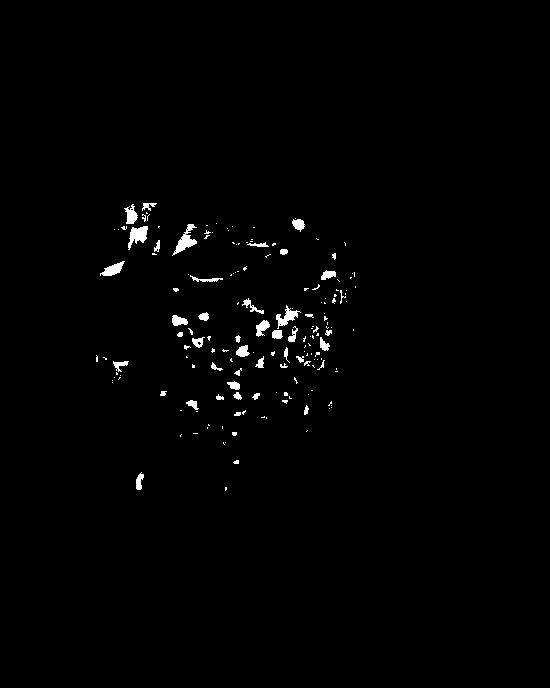
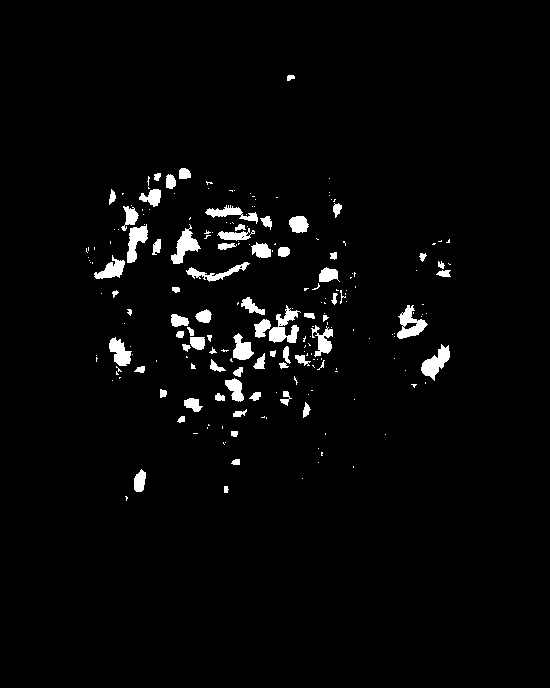
coom cnt if it can

diff --git a/Detect_Acne.py b/Detect_Acne.py
@@ -123,6 +123,14 @@ class Acne_Dector:
                     print(area)
                 if area > 300:
                     cv2.drawContours(bin_roi_BGR, [cnt], -1, (0, 0, 0), -1)
+                elif len(cnt) > 0:
+                    try:
+                        cnt_2d = np.reshape(cnt, (cnt.shape[0], 2))
+                        cnt_2d = proportional_zoom_contour(cnt_2d, 1.2 if area > 100 else 1.5)
+                        if cnt_2d.size > 0:
+                            cv2.drawContours(bin_roi_BGR, [cnt_2d], -1, (255, 255, 255), -1)
+                    except ValueError:
+                        pass
                     
             self.mask = cv2.cvtColor(bin_roi_BGR, cv2.COLOR_BGR2GRAY)
             
@@ -135,6 +143,36 @@ class Acne_Dector:
             
             self.img[np.where(self.mask==255)] = 0  
             self.img = cv2.inpaint(img, self.mask, 3, cv2.INPAINT_TELEA)
+
+import pyclipper
+
+def perimeter(poly):
+    p = 0
+    nums = poly.shape[0]
+    for i in range(nums):
+        p += abs(np.linalg.norm(poly[i % nums] - poly[(i + 1) % nums]))
+    return p
+
+def proportional_zoom_contour(contour, ratio):
+    """
+    多边形轮廓点按照比例进行缩放
+    :param contour: 一个图形的轮廓格式[[[x1, x2]],...],shape是(-1, 1, 2)
+    :param ratio: 缩放的比例，如果大于1是放大小于1是缩小
+    :return:
+    """
+    poly = contour[:, :]
+    area_poly = abs(pyclipper.Area(poly))
+    perimeter_poly = perimeter(poly)
+    poly_s = []
+    pco = pyclipper.PyclipperOffset()
+    pco.MiterLimit = 10
+    if perimeter_poly:
+        d = area_poly * (1 - ratio * ratio) / perimeter_poly
+        pco.AddPath(poly, pyclipper.JT_MITER, pyclipper.ET_CLOSEDPOLYGON)
+        poly_s = pco.Execute(-d)
+    poly_s = np.array(poly_s).reshape(-1, 1, 2).astype(int)
+
+    return poly_s
 
 if __name__ == '__main__':
     img = cv2.imread('./data/acne.jpg')
